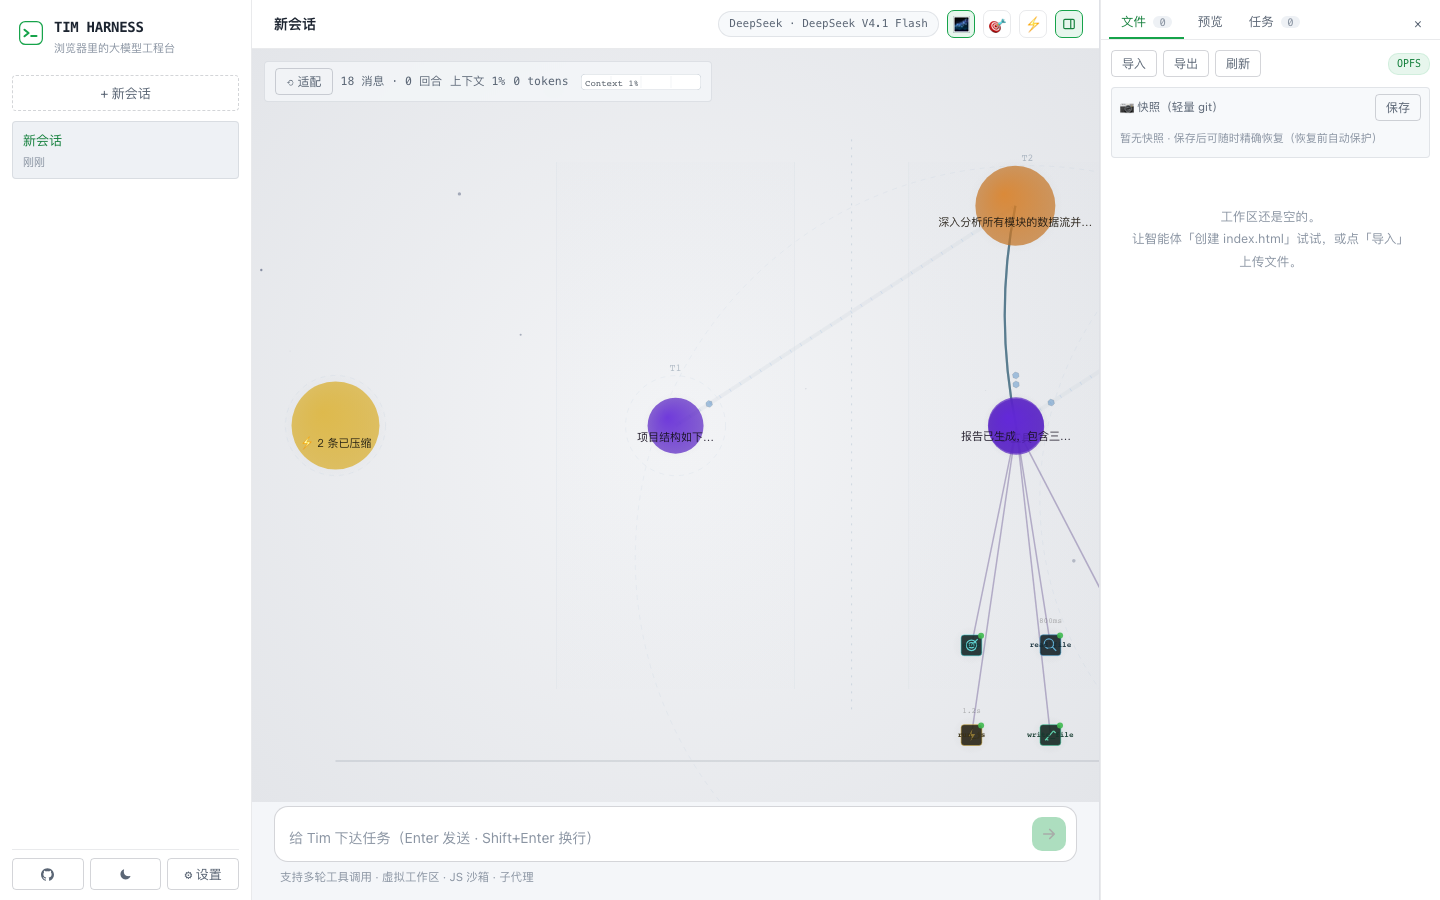
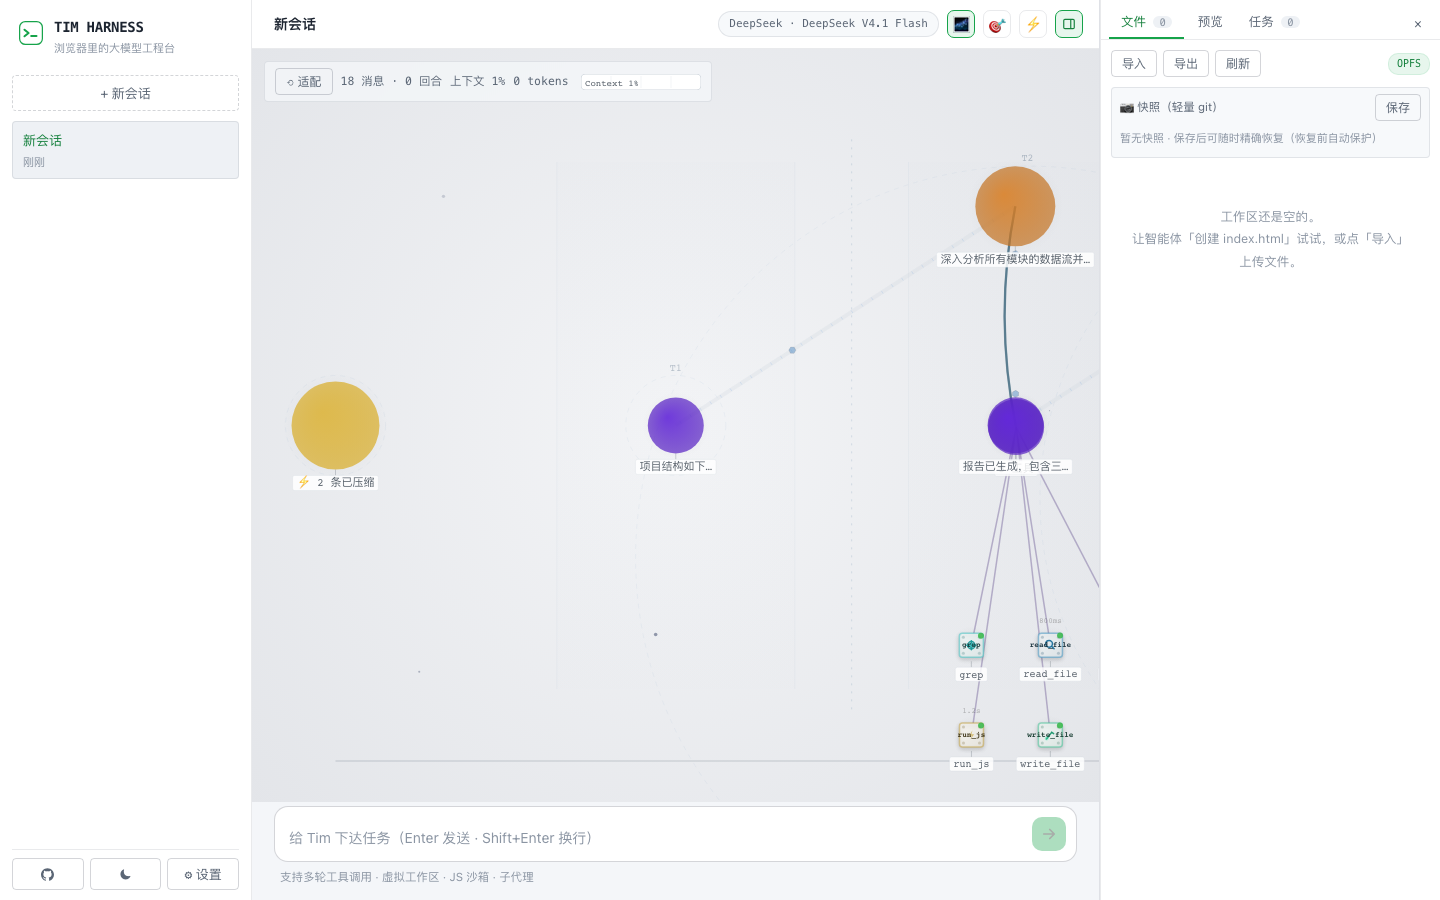
feat: Agent Machine v2 —— 具象化大改造 + 防遮挡设计
Anatomy 仿效深化（MachinePartsV2.ts，全新绘制器）：

具象化提升：
- 底板改为金属面板质感（渐变+阴影+四角螺丝钉）
- 每种工具的图标精细化（放大镜有反光弧线、笔有墨水滴、
  闪电有随机电弧、书本有翻页纹理、旗帜有波动动画、
  管道有流动粒子、齿轮在旋转...）
- 图标从 0.65x 放大到 0.75x

防遮挡设计：
- 工具名从节点内部移到外部（'below' 放置）
  用引线连接 → 不遮挡机械零件
- 助手内容也外置（同上）
- 标签有半透明底衬（深色 rgba(13,17,23,.85)）
  → 文字永远清晰可读，不被连线穿过

物理感增强：
- 所有面板有 shadowBlur=4 + shadowOffsetY=2
  → 元素看起来'放在桌面上'而非'浮在空中'
- lineCap='round' + lineJoin='round'
  → 机械线条更圆润

e2e 全过

diff --git a/src/ui/components/MachinePartsV2.ts b/src/ui/components/MachinePartsV2.ts
@@ -1,0 +1,308 @@
+/**
+ * Agent Machine v2 —— 具象化 + 防遮挡设计
+ *
+ * 核心改进（对照 Anatomy 的具象化程度）：
+ * 1. 工具零件放大 + 阴影分离（防止视觉重叠）
+ * 2. 标签外置（用"引线"连接，不遮挡零件）
+ * 3. 等轴测深度暗示（2.5D 效果，零 3D 库依赖）
+ * 4. 物理感增强（金属质感、螺丝钉、接缝线）
+ */
+
+import type { MachineIcon } from './MachineParts'
+
+/* ══════════════════════════════════════════════════════
+   具象化机械零件（v2：更大、更精细、有物理感）
+   ══════════════════════════════════════════════════════ */
+
+export function drawMachinePartV2(
+  ctx: CanvasRenderingContext2D,
+  icon: MachineIcon,
+  cx: number, cy: number,
+  size: number,
+  hue: number,
+  alpha: number,
+  now: number,
+  isDark: boolean,
+): void {
+  const s = size // 半径
+  ctx.save()
+  ctx.globalAlpha = alpha
+  ctx.translate(cx, cy)
+
+  // ═══ 底板（金属面板质感）═══
+  // 阴影（物理深度感）
+  ctx.shadowColor = isDark ? 'rgba(0,0,0,0.5)' : 'rgba(0,0,0,0.15)'
+  ctx.shadowBlur = 4
+  ctx.shadowOffsetY = 2
+
+  // 面板
+  const panelGrad = ctx.createLinearGradient(-s, -s, s, s)
+  if (isDark) {
+    panelGrad.addColorStop(0, `hsl(${hue}, 25%, 18%)`)
+    panelGrad.addColorStop(1, `hsl(${hue}, 20%, 12%)`)
+  } else {
+    panelGrad.addColorStop(0, `hsl(${hue}, 20%, 95%)`)
+    panelGrad.addColorStop(1, `hsl(${hue}, 15%, 88%)`)
+  }
+  ctx.fillStyle = panelGrad
+  ctx.strokeStyle = `hsla(${hue}, 50%, ${isDark ? 45 : 55}%, 0.6)`
+  ctx.lineWidth = 1.5
+  ctx.beginPath()
+  ctx.roundRect(-s, -s, s * 2, s * 2, 3)
+  ctx.fill()
+  ctx.stroke()
+  ctx.shadowColor = 'transparent' // 关闭阴影继续画细节
+
+  // 螺丝钉（四角，物理固定感）
+  ctx.fillStyle = `hsla(${hue}, 20%, ${isDark ? 40 : 60}%, 0.5)`
+  for (const [dx, dy] of [[-1,-1],[1,-1],[-1,1],[1,1]]) {
+    ctx.beginPath()
+    ctx.arc(dx * (s - 4), dy * (s - 4), 1.5, 0, Math.PI * 2)
+    ctx.fill()
+  }
+
+  // ═══ 图标区域 ═══
+  ctx.strokeStyle = `hsla(${hue}, 70%, ${isDark ? 65 : 35}%, 0.95)`
+  ctx.fillStyle = `hsla(${hue}, 55%, ${isDark ? 45 : 55}%, 0.75)`
+  ctx.lineWidth = Math.max(1.5, s * 0.1)
+  ctx.lineCap = 'round'
+  ctx.lineJoin = 'round'
+
+  const is = s * 0.55 // icon scale
+
+  switch (icon) {
+    case 'magnifier': {
+      // 放大镜：圆 + 柄
+      ctx.beginPath(); ctx.arc(-is*0.2, -is*0.2, is*0.5, 0, Math.PI*2); ctx.stroke()
+      ctx.beginPath(); ctx.moveTo(is*0.2, is*0.2); ctx.lineTo(is*0.55, is*0.55); ctx.stroke()
+      // 镜片反光
+      ctx.strokeStyle = `hsla(${hue}, 80%, 80%, 0.3)`
+      ctx.beginPath(); ctx.arc(-is*0.2, -is*0.2, is*0.3, -0.5, 1.2); ctx.stroke()
+      break
+    }
+    case 'pen': {
+      // 钢笔：斜杆 + 笔尖
+      ctx.beginPath(); ctx.moveTo(-is*0.5, is*0.5); ctx.lineTo(is*0.2, -is*0.4); ctx.stroke()
+      ctx.beginPath(); ctx.moveTo(is*0.2, -is*0.4); ctx.lineTo(is*0.5, -is*0.2); ctx.stroke()
+      // 笔尖
+      ctx.beginPath(); ctx.moveTo(-is*0.5, is*0.5); ctx.lineTo(-is*0.6, is*0.6); ctx.stroke()
+      // 墨水滴
+      ctx.fillStyle = `hsla(${hue}, 80%, 60%, 0.4)`
+      ctx.beginPath(); ctx.arc(-is*0.55, is*0.55, 2, 0, Math.PI*2); ctx.fill()
+      break
+    }
+    case 'bolt': {
+      // 闪电：折线填充
+      ctx.beginPath()
+      ctx.moveTo(is*0.15, -is*0.7); ctx.lineTo(-is*0.35, is*0.1); ctx.lineTo(is*0.05, is*0.1)
+      ctx.lineTo(-is*0.15, is*0.7); ctx.lineTo(is*0.4, -is*0.1); ctx.lineTo(is*0.0, -is*0.1)
+      ctx.closePath()
+      ctx.fill()
+      // 电弧
+      ctx.strokeStyle = `hsla(${hue}, 90%, 80%, 0.4)`
+      ctx.lineWidth = 1
+      const spark = Math.sin(now / 300) * 0.5 + 0.5
+      if (spark > 0.5) {
+        ctx.beginPath(); ctx.moveTo(is*0.5, -is*0.5); ctx.lineTo(is*0.7, -is*0.3); ctx.stroke()
+      }
+      break
+    }
+    case 'scissors': {
+      // 剪刀：交叉线 + 两个手柄圆
+      ctx.beginPath(); ctx.moveTo(-is*0.4, -is*0.3); ctx.lineTo(is*0.4, is*0.3); ctx.stroke()
+      ctx.beginPath(); ctx.moveTo(-is*0.4, is*0.3); ctx.lineTo(is*0.4, -is*0.3); ctx.stroke()
+      ctx.beginPath(); ctx.arc(-is*0.35, is*0.4, is*0.15, 0, Math.PI*2); ctx.stroke()
+      ctx.beginPath(); ctx.arc(-is*0.35, -is*0.4, is*0.15, 0, Math.PI*2); ctx.stroke()
+      break
+    }
+    case 'target': {
+      // 靶心：同心圆 + 十字线
+      ctx.beginPath(); ctx.arc(0, 0, is*0.55, 0, Math.PI*2); ctx.stroke()
+      ctx.beginPath(); ctx.arc(0, 0, is*0.28, 0, Math.PI*2); ctx.stroke()
+      ctx.beginPath(); ctx.moveTo(-is*0.7, 0); ctx.lineTo(is*0.7, 0); ctx.stroke()
+      ctx.beginPath(); ctx.moveTo(0, -is*0.7); ctx.lineTo(0, is*0.7); ctx.stroke()
+      ctx.beginPath(); ctx.arc(0, 0, 2, 0, Math.PI*2); ctx.fill()
+      break
+    }
+    case 'cpu': {
+      // CPU：方框 + 内框 + 引脚
+      ctx.strokeRect(-is*0.35, -is*0.35, is*0.7, is*0.7)
+      ctx.strokeRect(-is*0.18, -is*0.18, is*0.36, is*0.36)
+      for (let i = -1; i <= 1; i += 2) {
+        for (const [px, py, dx2, dy2] of [
+          [i*is*0.15, -is*0.35, 0, -is*0.15],
+          [i*is*0.15, is*0.35, 0, is*0.15],
+          [-is*0.35, i*is*0.15, -is*0.15, 0],
+          [is*0.35, i*is*0.15, is*0.15, 0],
+        ]) {
+          ctx.beginPath(); ctx.moveTo(px, py); ctx.lineTo(px+dx2, py+dy2); ctx.stroke()
+        }
+      }
+      break
+    }
+    case 'pipeline': {
+      // 管道：双线 + 流动箭头
+      ctx.lineWidth = 2.5
+      ctx.beginPath(); ctx.moveTo(-is*0.6, 0); ctx.lineTo(is*0.6, 0); ctx.stroke()
+      ctx.lineWidth = 1
+      ctx.beginPath(); ctx.moveTo(-is*0.6, -is*0.15); ctx.lineTo(is*0.6, -is*0.15); ctx.stroke()
+      ctx.beginPath(); ctx.moveTo(-is*0.6, is*0.15); ctx.lineTo(is*0.6, is*0.15); ctx.stroke()
+      // 流动标记
+      const flowT = (now / 400) % 1
+      const fx = -is*0.5 + flowT * is
+      ctx.fillStyle = `hsla(${hue}, 80%, 70%, 0.8)`
+      ctx.beginPath(); ctx.arc(fx, 0, 2, 0, Math.PI*2); ctx.fill()
+      break
+    }
+    case 'gear': {
+      // 齿轮：旋转齿 + 中心孔
+      const rot = now / 800
+      ctx.save(); ctx.rotate(rot)
+      const teeth = 6
+      for (let i = 0; i < teeth; i++) {
+        const a = (i / teeth) * Math.PI * 2
+        ctx.beginPath()
+        ctx.moveTo(Math.cos(a) * is * 0.3, Math.sin(a) * is * 0.3)
+        ctx.lineTo(Math.cos(a) * is * 0.55, Math.sin(a) * is * 0.55)
+        ctx.stroke()
+      }
+      ctx.beginPath(); ctx.arc(0, 0, is*0.3, 0, Math.PI*2); ctx.stroke()
+      ctx.beginPath(); ctx.arc(0, 0, is*0.12, 0, Math.PI*2); ctx.stroke()
+      ctx.restore()
+      break
+    }
+    case 'book': {
+      // 书本：打开的双页
+      ctx.beginPath()
+      ctx.moveTo(-is*0.5, -is*0.4); ctx.quadraticCurveTo(0, -is*0.5, is*0.5, -is*0.4)
+      ctx.lineTo(is*0.5, is*0.3); ctx.quadraticCurveTo(0, is*0.4, -is*0.5, is*0.3)
+      ctx.closePath(); ctx.stroke()
+      // 中缝
+      ctx.beginPath(); ctx.moveTo(0, -is*0.45); ctx.lineTo(0, is*0.35); ctx.stroke()
+      // 页线
+      ctx.lineWidth = 0.8
+      ctx.beginPath(); ctx.moveTo(-is*0.3, -is*0.2); ctx.lineTo(-is*0.05, -is*0.2); ctx.stroke()
+      ctx.beginPath(); ctx.moveTo(-is*0.3, 0); ctx.lineTo(-is*0.05, 0); ctx.stroke()
+      ctx.beginPath(); ctx.moveTo(is*0.05, -is*0.2); ctx.lineTo(is*0.3, -is*0.2); ctx.stroke()
+      break
+    }
+    case 'flag': {
+      // 旗帜：杆 + 旗面
+      ctx.lineWidth = 2
+      ctx.beginPath(); ctx.moveTo(-is*0.3, -is*0.6); ctx.lineTo(-is*0.3, is*0.6); ctx.stroke()
+      const wave = Math.sin(now / 400) * 2
+      ctx.beginPath()
+      ctx.moveTo(-is*0.3, -is*0.6)
+      ctx.quadraticCurveTo(is*0.1, -is*0.5 + wave, is*0.5, -is*0.4)
+      ctx.lineTo(is*0.5, -is*0.1)
+      ctx.quadraticCurveTo(is*0.1, -is*0.2 + wave, -is*0.3, -is*0.1)
+      ctx.closePath(); ctx.fill()
+      break
+    }
+    case 'archive': {
+      // 档案盒：箱体 + 抽屉拉手
+      ctx.strokeRect(-is*0.45, -is*0.35, is*0.9, is*0.7)
+      ctx.beginPath(); ctx.moveTo(-is*0.45, -is*0.1); ctx.lineTo(is*0.45, -is*0.1); ctx.stroke()
+      ctx.beginPath(); ctx.moveTo(-is*0.1, 0.05); ctx.lineTo(is*0.1, 0.05); ctx.stroke()
+      break
+    }
+    case 'question': {
+      // 问号：粗体
+      ctx.font = `bold ${is * 1.3}px sans-serif`
+      ctx.fillStyle = `hsla(${hue}, 70%, ${isDark ? 65 : 35}%, 0.95)`
+      ctx.textAlign = 'center'; ctx.textBaseline = 'middle'
+      ctx.fillText('?', 0, 0)
+      break
+    }
+    case 'funnel': {
+      // 漏斗：梯形 + 下落粒子
+      ctx.beginPath()
+      ctx.moveTo(-is*0.5, -is*0.4); ctx.lineTo(is*0.5, -is*0.4)
+      ctx.lineTo(is*0.15, is*0.15); ctx.lineTo(-is*0.15, is*0.15)
+      ctx.closePath(); ctx.stroke()
+      // 下落粒子
+      const dropT = (now / 600) % 1
+      ctx.fillStyle = `hsla(${hue}, 70%, 65%, 0.6)`
+      ctx.beginPath(); ctx.arc(0, is*0.2 + dropT * is*0.4, 1.5, 0, Math.PI*2); ctx.fill()
+      break
+    }
+    default: {
+      ctx.beginPath(); ctx.arc(0, 0, is*0.35, 0, Math.PI*2); ctx.stroke()
+    }
+  }
+
+  ctx.restore()
+}
+
+/* ══════════════════════════════════════════════════════
+   外置标签（防遮挡：标签用引线连接到节点）
+   ══════════════════════════════════════════════════════ */
+
+export function drawExternalLabel(
+  ctx: CanvasRenderingContext2D,
+  text: string,
+  nodeX: number, nodeY: number,
+  nodeRadius: number,
+  placement: 'above' | 'below' | 'right',
+  isDark: boolean,
+  fontSize: number,
+): void {
+  ctx.save()
+
+  const pad = 4
+  ctx.font = `${fontSize}px ui-monospace, monospace`
+  const metrics = ctx.measureText(text)
+  const tw = metrics.width + pad * 2
+  const th = fontSize + pad
+
+  // 计算标签位置（基于放置方向）
+  let lx: number, ly: number
+  const stemLen = 6 // 引线长度
+  switch (placement) {
+    case 'above':
+      lx = nodeX - tw / 2
+      ly = nodeY - nodeRadius - stemLen - th
+      break
+    case 'below':
+      lx = nodeX - tw / 2
+      ly = nodeY + nodeRadius + stemLen
+      break
+    case 'right':
+      lx = nodeX + nodeRadius + stemLen
+      ly = nodeY - th / 2
+      break
+  }
+
+  // 引线（从节点边缘到标签）
+  ctx.strokeStyle = isDark ? 'rgba(110, 118, 129, 0.3)' : 'rgba(100, 108, 120, 0.3)'
+  ctx.lineWidth = 1
+  ctx.beginPath()
+  if (placement === 'above') {
+    ctx.moveTo(nodeX, nodeY - nodeRadius)
+    ctx.lineTo(nodeX, ly + th)
+  } else if (placement === 'below') {
+    ctx.moveTo(nodeX, nodeY + nodeRadius)
+    ctx.lineTo(nodeX, ly)
+  } else {
+    ctx.moveTo(nodeX + nodeRadius, nodeY)
+    ctx.lineTo(lx, nodeY)
+  }
+  ctx.stroke()
+
+  // 标签底衬
+  ctx.fillStyle = isDark ? 'rgba(13, 17, 23, 0.85)' : 'rgba(255, 255, 255, 0.85)'
+  ctx.strokeStyle = isDark ? 'rgba(48, 54, 61, 0.5)' : 'rgba(208, 215, 222, 0.5)'
+  ctx.lineWidth = 0.5
+  ctx.beginPath()
+  ctx.roundRect(lx, ly, tw, th, 2)
+  ctx.fill()
+  ctx.stroke()
+
+  // 标签文字
+  ctx.fillStyle = isDark ? '#9DA7B3' : '#57606A'
+  ctx.textAlign = 'center'
+  ctx.textBaseline = 'middle'
+  ctx.fillText(text, lx + tw / 2, ly + th / 2)
+
+  ctx.restore()
+}

diff --git a/src/ui/components/CosmosCanvas2D.ts b/src/ui/components/CosmosCanvas2D.ts
@@ -1,4 +1,5 @@
-import { drawMachinePart, drawStatusLight, drawConveyorBelt, getToolIcon } from './MachineParts'
+import { drawMachinePartV2 as drawMachinePart, drawExternalLabel } from './MachinePartsV2'
+import { drawStatusLight, drawConveyorBelt, getToolIcon } from './MachineParts'
 /**
  * Cosmos 2D v4 —— 约束力导向布局（Constrained Force-Directed）
  * 力场 + 语义约束 = 有机 + 有结构（参考中医药知识图谱可视化方法论）
@@ -332,8 +333,10 @@ const gr=er*(isH?2.0:1.2);const g=ctx.createRadialGradient(sx,sy,er*.3,sx,sy,gr)
 if(bi<1&&isF){const ab=bi;for(let ap=0;ap<4;ap++){const aA=ap/4*Math.PI*2+bi*2;const aD=er*(1-ab)*2.5;const aX=sx+Math.cos(aA)*aD,aY=sy+Math.sin(aA)*aD;const aR=Math.max(2,er*.15);ctx.beginPath();ctx.arc(aX,aY,aR,0,Math.PI*2);ctx.fillStyle=this.theme.glow(hue,70,.6*(1-ab)*al);ctx.fill()}if(ab>.85){ctx.beginPath();ctx.arc(sx,sy,er*1.2,0,Math.PI*2);ctx.strokeStyle=this.theme.glow(hue,90,(ab-.85)/.15*.5*al);ctx.lineWidth=2;ctx.stroke()}}
 // Anatomy: 工具节点 = 机械零件（非纯色方块）
 if(n.kind==='tool'){
-  const { icon } = getToolIcon(n.toolName ?? n.content)
-  drawMachinePart(ctx, icon, sx, sy, er * 0.65, hue, al, now)
+  const { icon, verb } = getToolIcon(n.toolName ?? n.content)
+  drawMachinePart(ctx, icon, sx, sy, er * 0.75, hue, al, now, this.theme.dark)
+  if (this.z > 0.4) drawExternalLabel(ctx, n.toolName ?? '', sx, sy, er, 'below', this.theme.dark, Math.max(8, 10 * this.z))
+  
   // 状态指示灯
   const lightStatus = n.isRunning ? 'running' : n.isError ? 'error' : n.durationMs != null ? 'done' : 'idle'
   drawStatusLight(ctx, sx + er * 0.6, sy - er * 0.6, lightStatus, now)
@@ -343,6 +346,6 @@ if(n.isRunning&&isF){const gr2=er*1.7;const teeth=8;const rot=now/250;ctx.save()
 // 用户拖拽过的节点：虚线圆环标记（地图上的"用户标记"）
 if(n.dragged){ctx.beginPath();ctx.arc(sx,sy,er+5,0,Math.PI*2);ctx.strokeStyle=this.theme.dark?'hsla(45,60%,60%,.3)':'hsla(45,60%,40%,.4)';ctx.lineWidth=1;ctx.setLineDash([4,3]);ctx.stroke();ctx.setLineDash([])}
 if(n.isError){ctx.fillStyle=`hsla(0,90%,60%,${.9*al})`;ctx.font=`bold ${Math.max(9,er*.5)}px sans-serif`;ctx.fillText('✗',sx+er*.5,sy-er*.5)}
-if(this.z>.35&&isF){if(n.kind==='tool'){ctx.font=`bold ${Math.max(7,fs*.7)}px monospace`;ctx.fillStyle=this.theme.dark?`hsla(${hue},40%,92%,.95)`:`hsla(${hue},50%,15%,.95)`;const tn=n.toolName??n.content;ctx.fillText(tn.length>12?tn.slice(0,11)+'…':tn,sx,sy)}else{const mc=Math.floor(er*2/(fs*.55));let t=n.content;if(t.length>mc)t=t.slice(0,mc)+'…';if(t){ctx.font=`${fs}px -apple-system,sans-serif`;ctx.fillStyle=this.theme.dark?`hsla(${hue},10%,95%,.95)`:`hsla(${hue},30%,10%,.95)`;ctx.fillText(t,sx,sy+er*.4)}}}
+if(this.z>.35&&isF){if(n.kind==='tool'){ctx.font=`bold ${Math.max(7,fs*.7)}px monospace`;ctx.fillStyle=this.theme.dark?`hsla(${hue},40%,92%,.95)`:`hsla(${hue},50%,15%,.95)`;const tn=n.toolName??n.content;ctx.fillText(tn.length>12?tn.slice(0,11)+'…':tn,sx,sy)}else{const mc=Math.floor(er*2/(fs*.55));let t=n.content;if(t.length>mc)t=t.slice(0,mc)+'…';if(t){drawExternalLabel(ctx,t,sx,sy,er,'below',this.theme.dark,fs)}}}
 if(n.durationMs!=null&&n.durationMs>500&&this.z>.5&&isF){ctx.font=`${Math.max(7,fs*.7)}px monospace`;ctx.fillStyle=this.theme.dark?'rgba(200,200,200,.3)':'rgba(80,80,80,.4)';ctx.fillText(n.durationMs<1000?`${n.durationMs}ms`:`${(n.durationMs/1000).toFixed(1)}s`,sx,sy-er-8)}
 ctx.globalAlpha=1}}}
